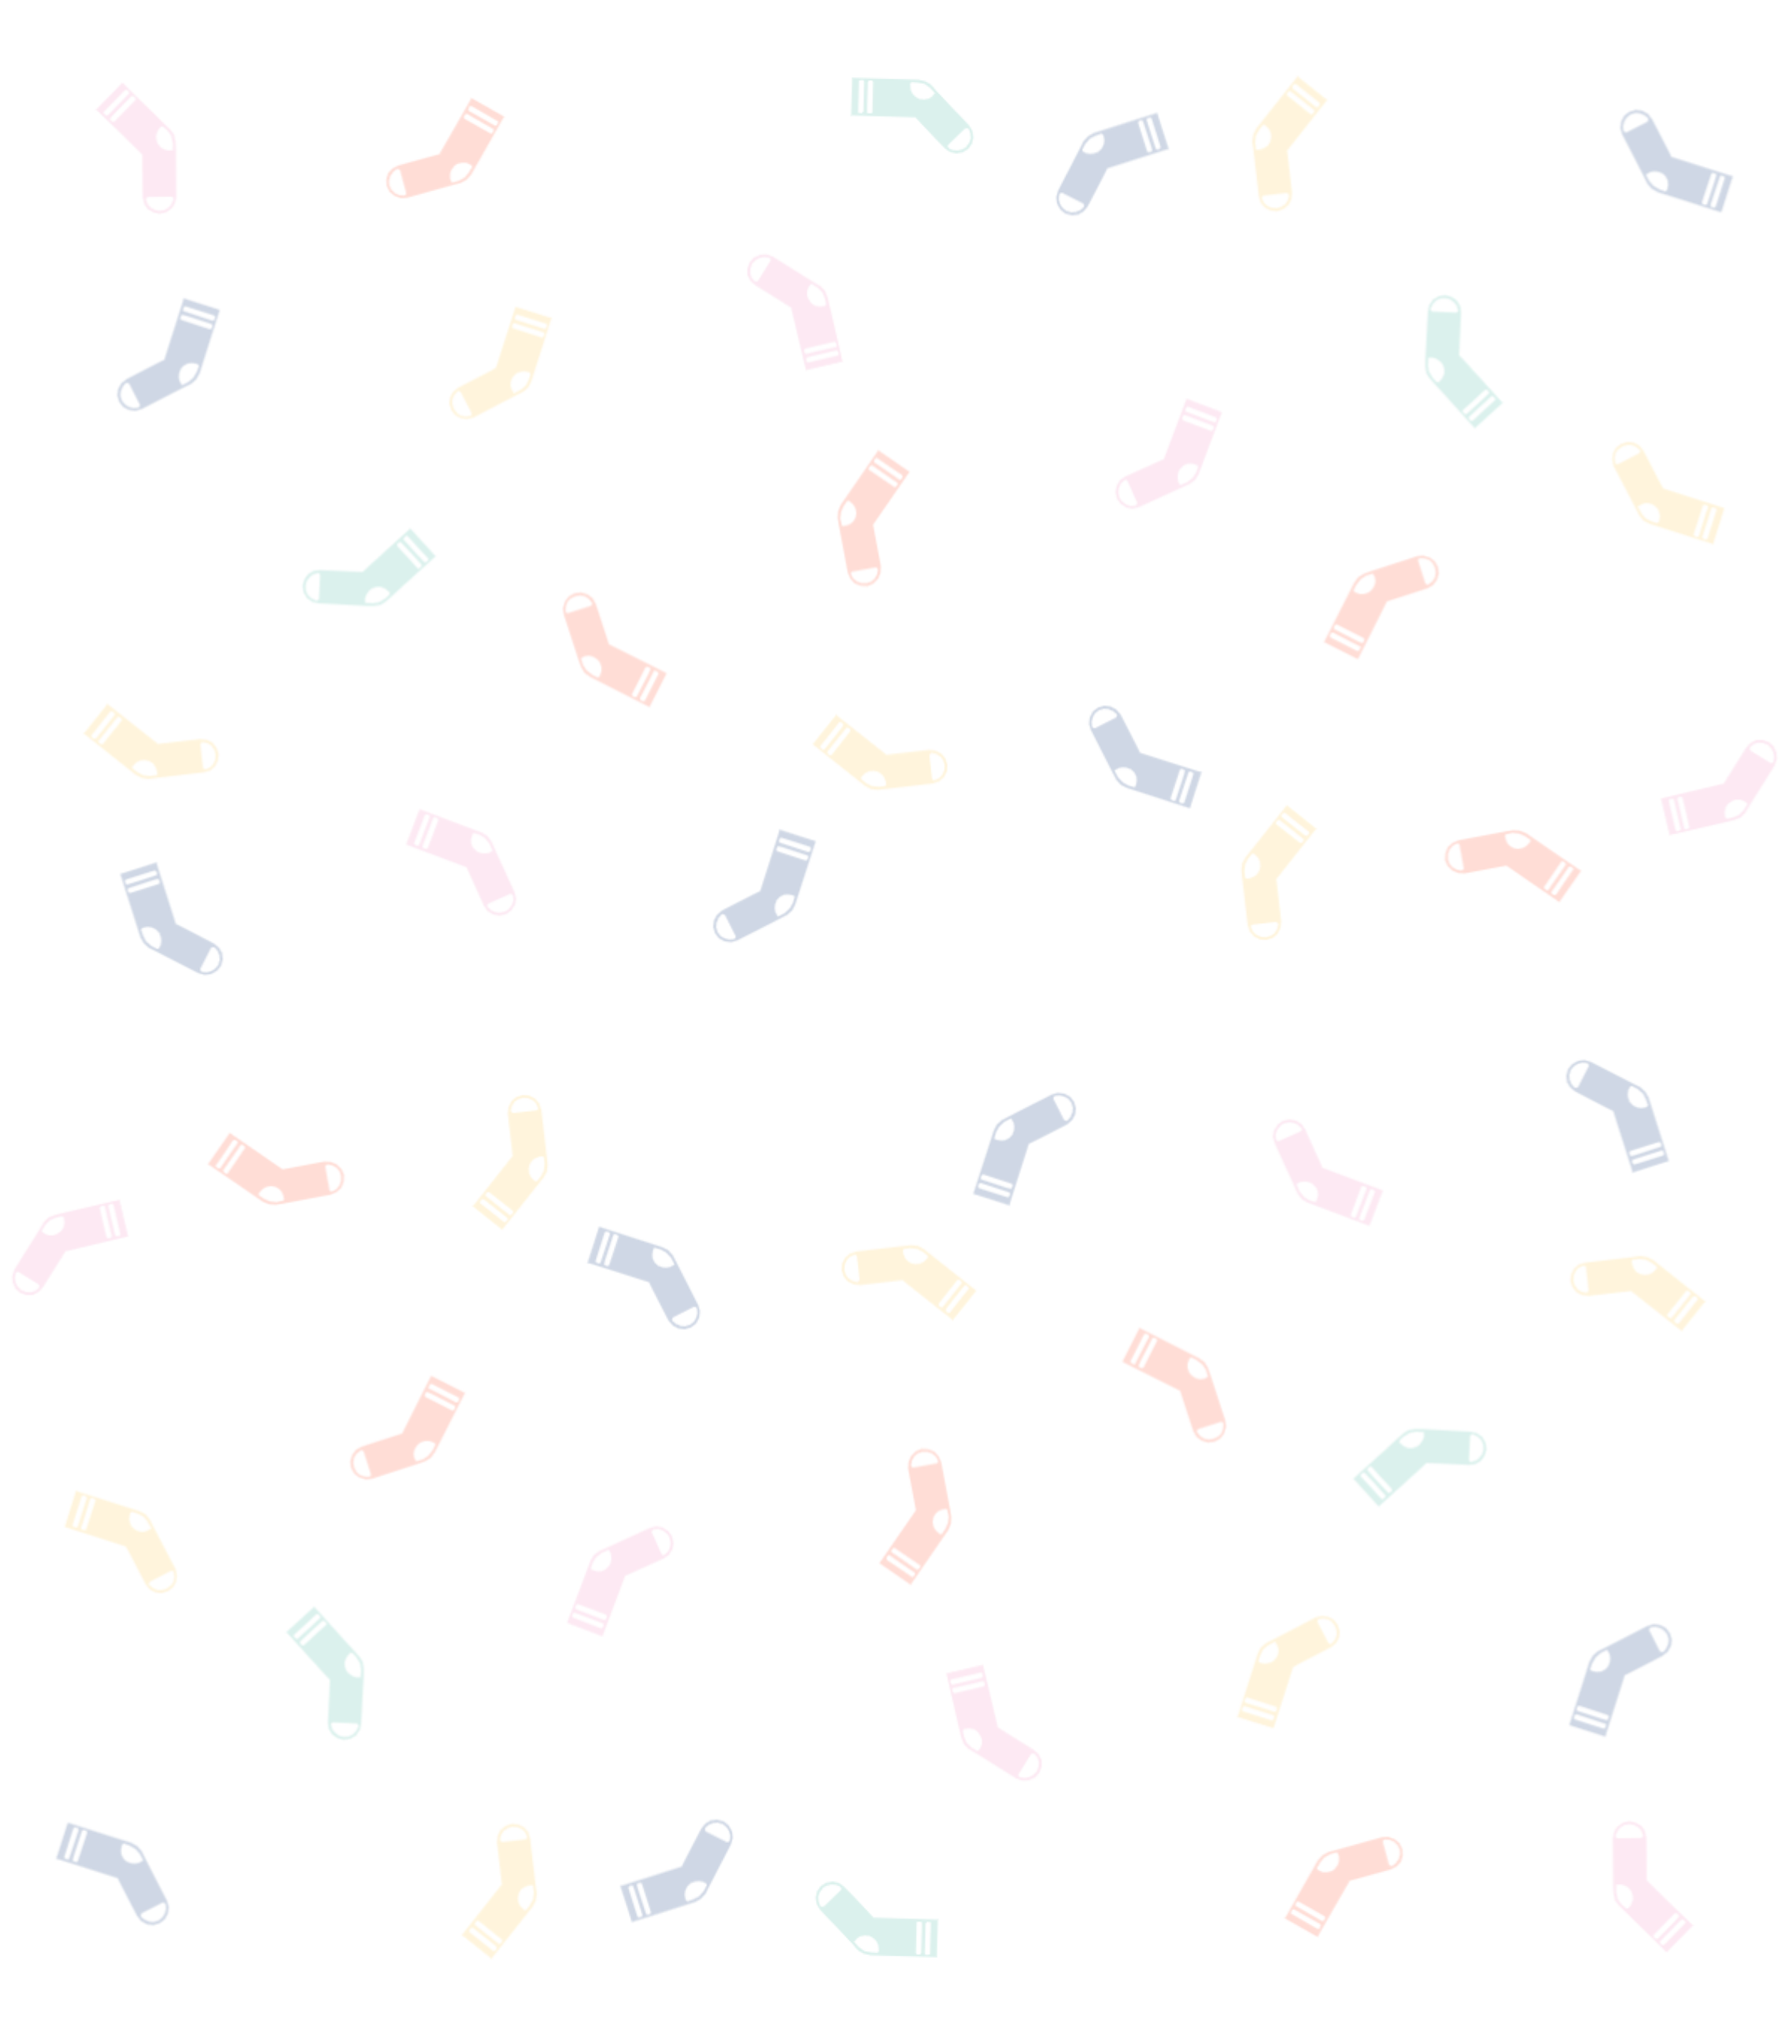
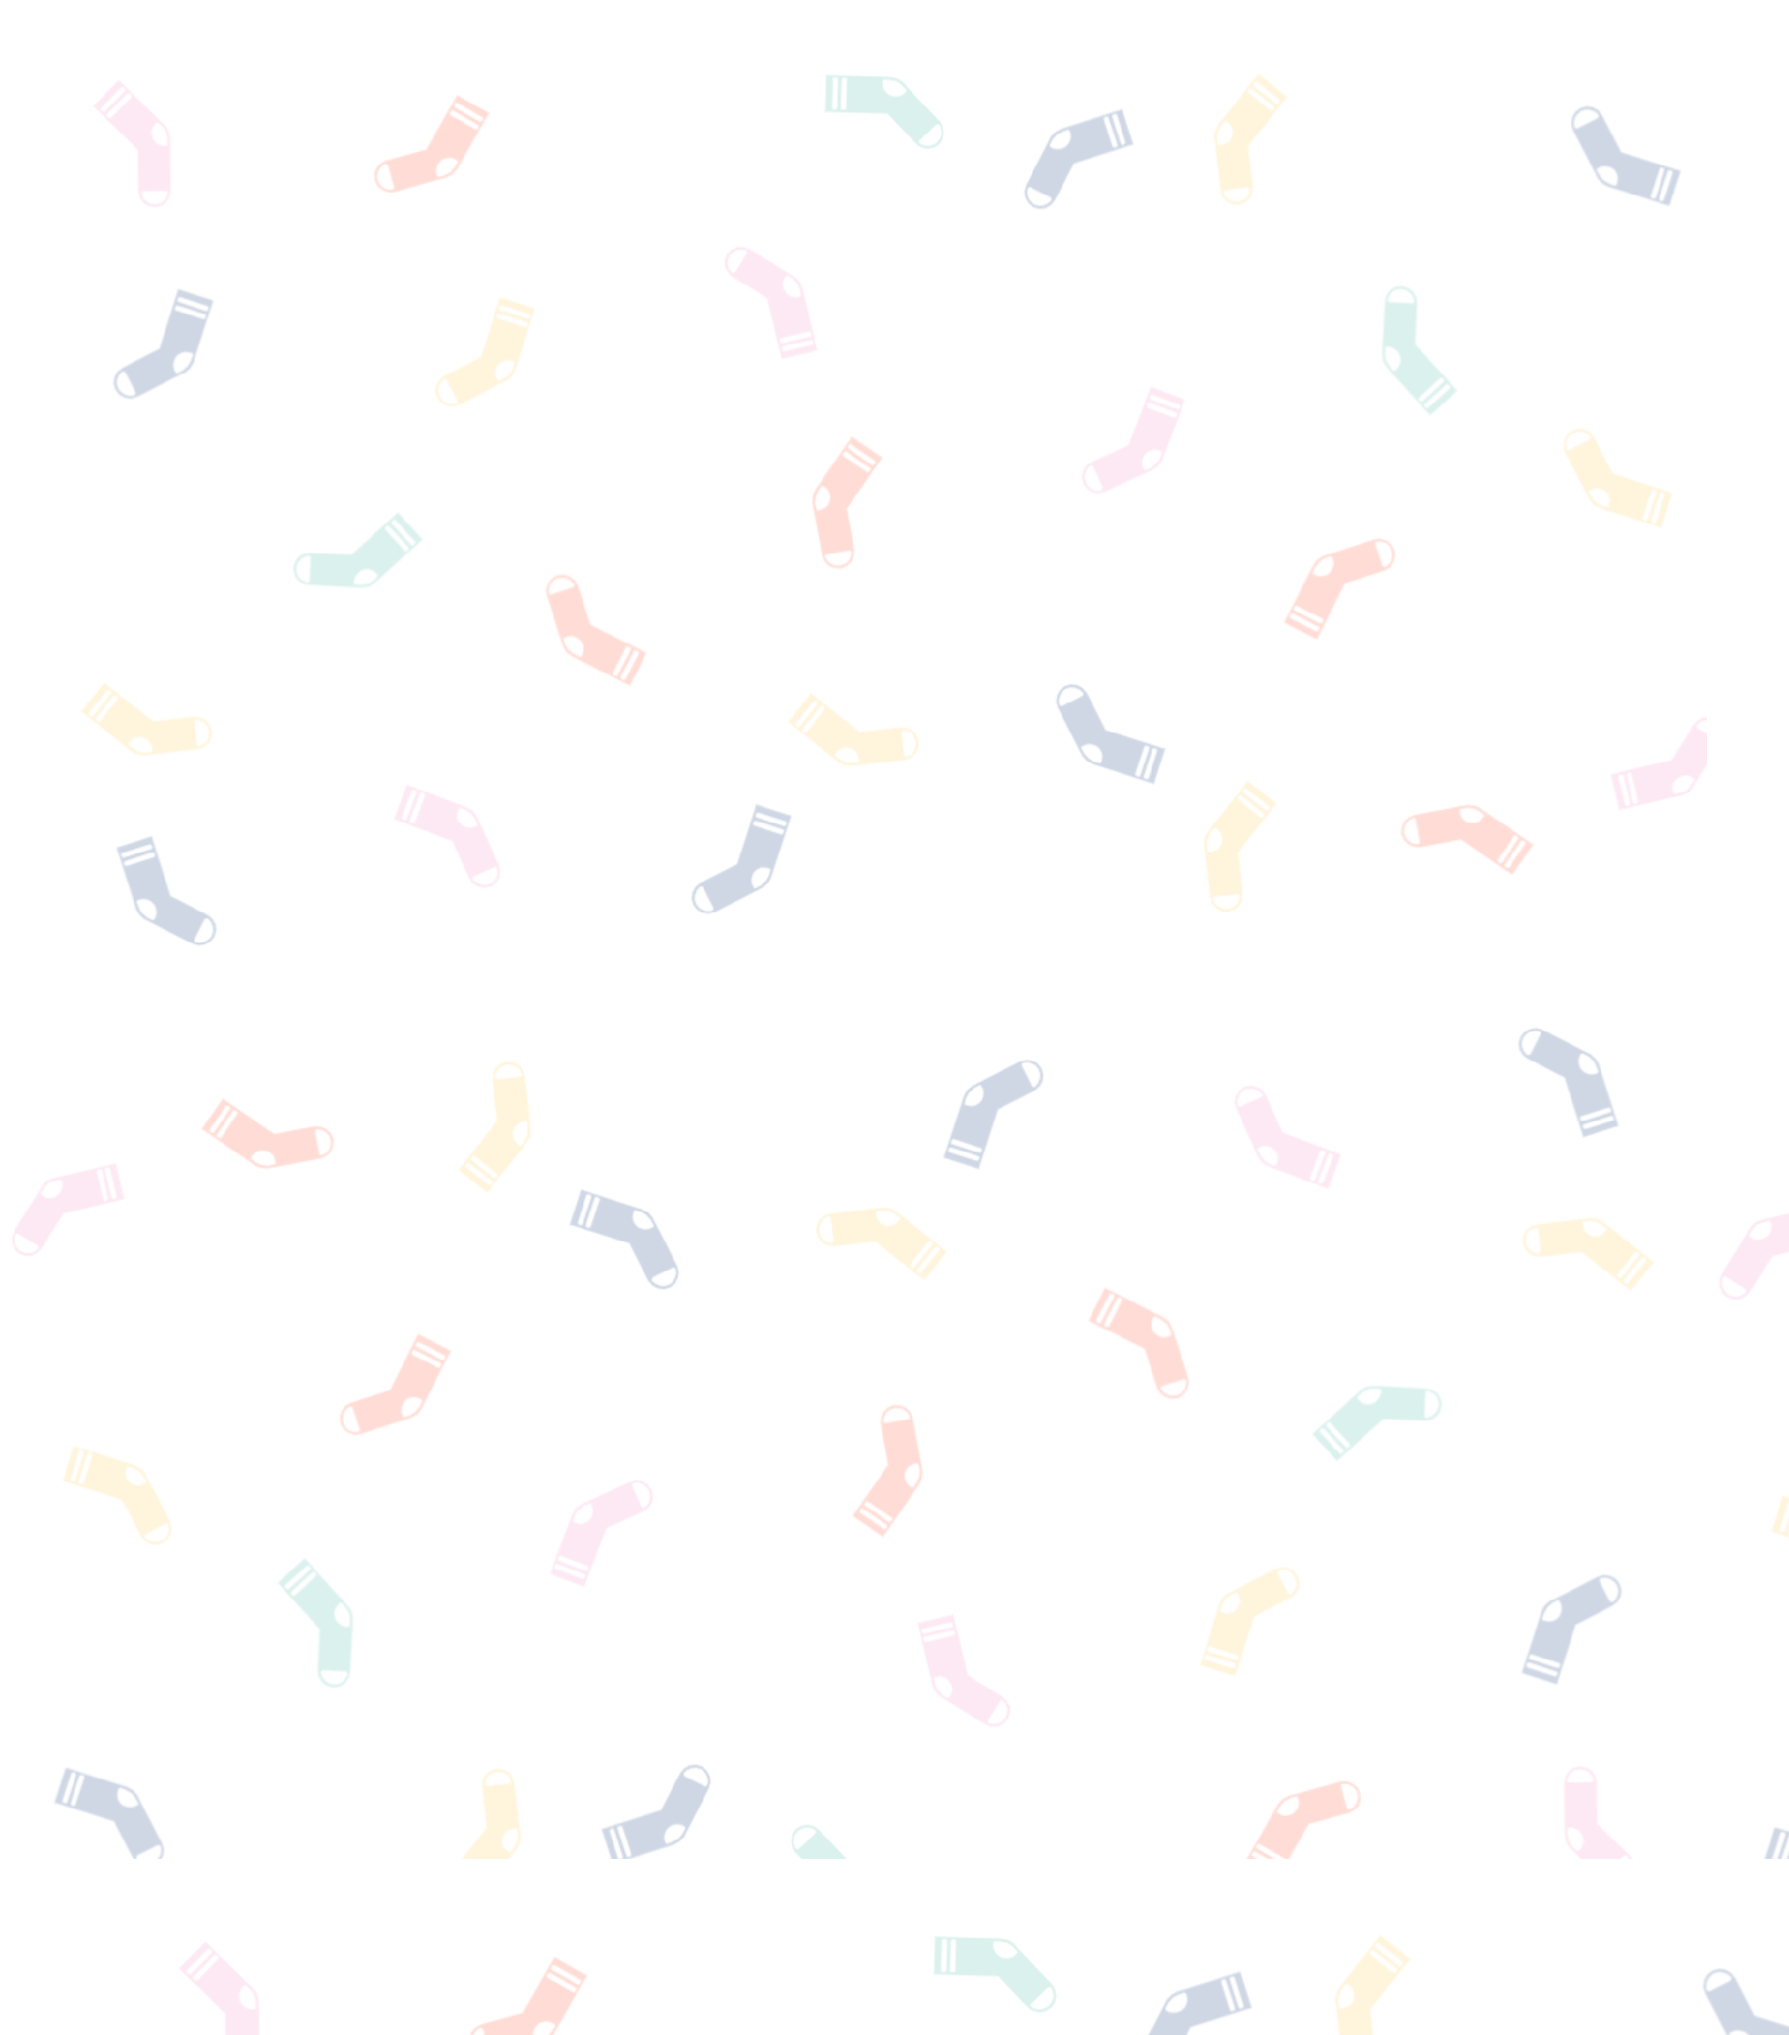
Updated 404 page in accordance with coding conventions.

diff --git a/Pages/404 page/404 page.css b/Pages/404 page/404 page.css
@@ -4,6 +4,9 @@
 {
     font-family: "Nexa Light";
     src: url(../../Fontsandimages/Fonts/Nexa\ Light.otf);
+}
+
+@font-face {
     font-family: "Nexa Bold";
     src: url(../../Fontsandimages/Fonts/Nexa\ Bold.otf);
 }
@@ -40,7 +43,6 @@ a
     align-items: center;
     height: 100vh;
     background-image: url(../../Fontsandimages/background.png);
-    background-size: 97%;
 }
 
 #flexText
@@ -53,8 +55,8 @@ a
 {
     font-family: "Nexa Bold";
     font-size: 64px;
-    margin-bottom: 0;
     margin-top: 0;
+    margin-bottom: 0;
 }
 
 #flexSubtitle
